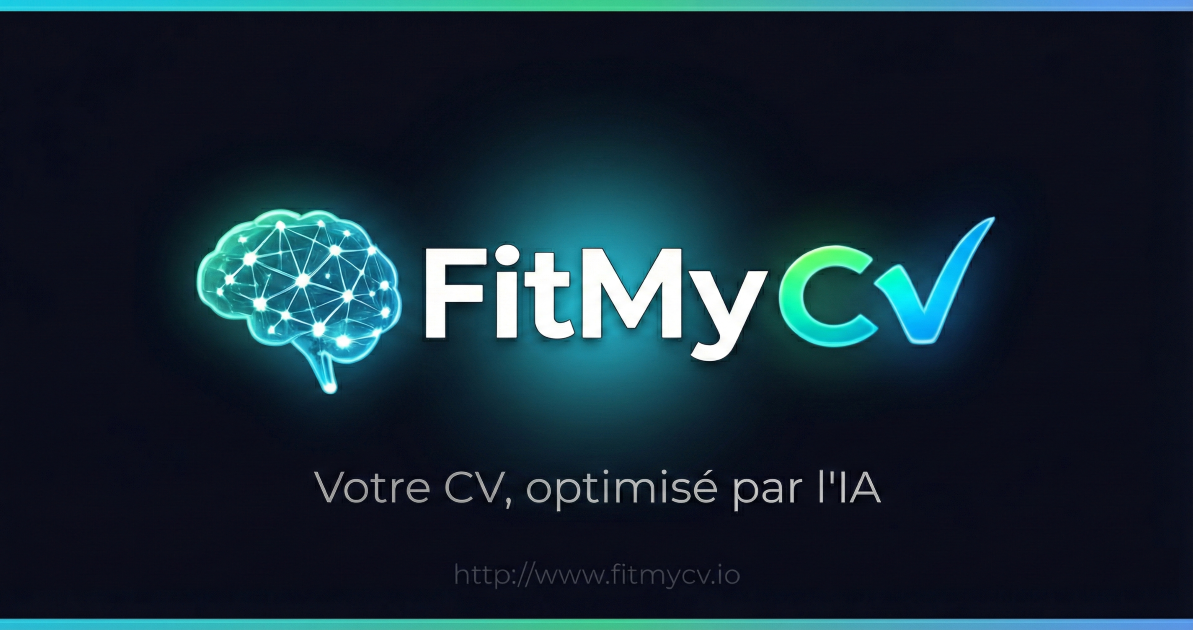
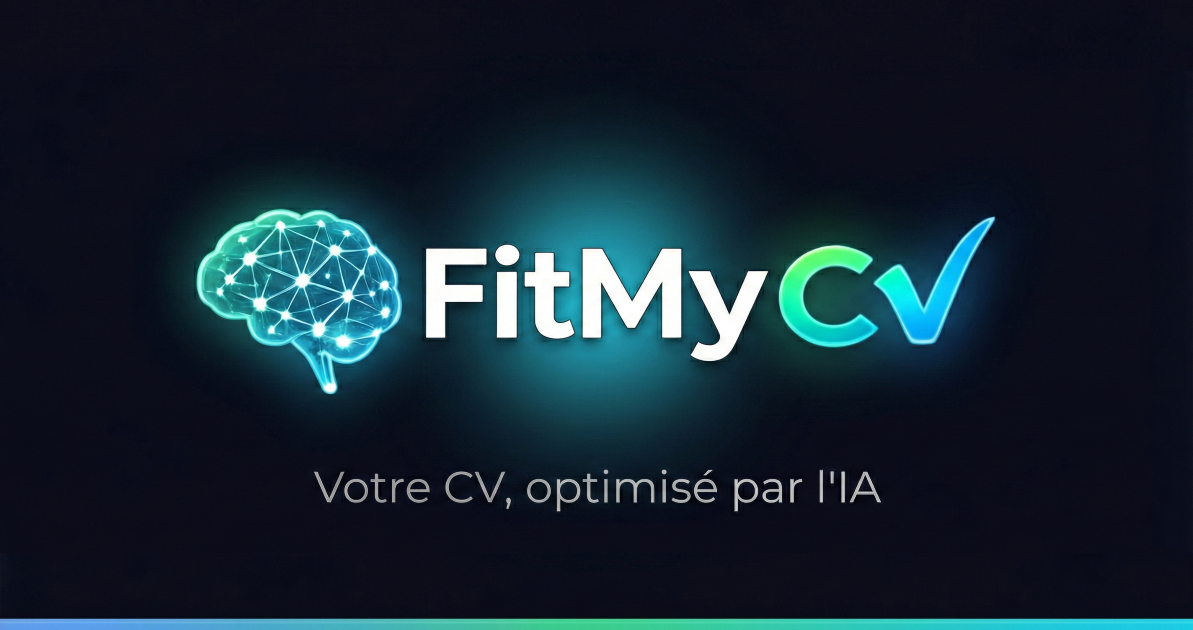
Fix HowItWorks mockup scaling on window resize and update OG image
Use CSS aspect-ratio instead of JS-set height on the mockup frame so
dimensions stay correct during live resize without waiting for JS.

diff --git a/src/components/landing/HowItWorks.tsx b/src/components/landing/HowItWorks.tsx
@@ -30,15 +30,12 @@ export default function HowItWorks() {
   const iframeLoadedRef = useRef(iframeLoaded);
   iframeLoadedRef.current = iframeLoaded;
 
-  // Update iframe scale to fit container
+  // Update iframe scale to fit container (height handled by CSS aspect-ratio)
   const updateScale = useCallback(() => {
     const frame = mockupFrameRef.current;
     const iframe = mockupIframeRef.current;
     if (!frame || !iframe) return;
-    const containerW = frame.offsetWidth;
-    const scale = containerW / BASE_W;
-    const scaledH = BASE_H * scale;
-    frame.style.height = `${scaledH}px`;
+    const scale = frame.offsetWidth / BASE_W;
     iframe.style.transform = `scale(${scale})`;
   }, []);
 

diff --git a/src/styles/landing.css b/src/styles/landing.css
@@ -796,6 +796,7 @@ body {
   .hiw-mockup-frame {
     position: relative;
     width: 100%;
+    aspect-ratio: 960 / 600;
     border-radius: 12px;
     overflow: hidden;
     background: rgba(255,255,255,0.03);
@@ -815,7 +816,9 @@ body {
   }
 
   .hiw-mockup-frame iframe {
-    display: block;
+    position: absolute;
+    top: 0;
+    left: 0;
     width: 960px;
     height: 600px;
     border: none;
